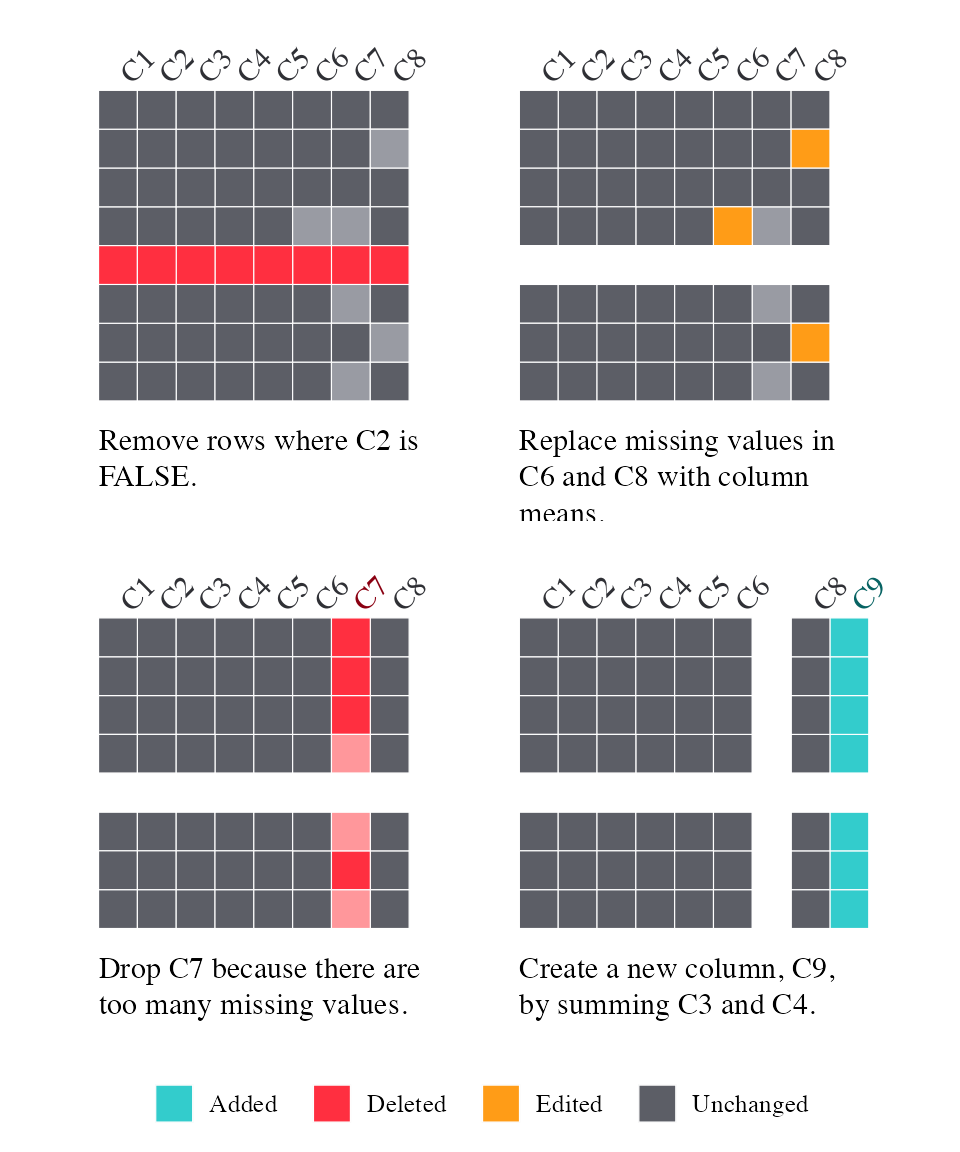
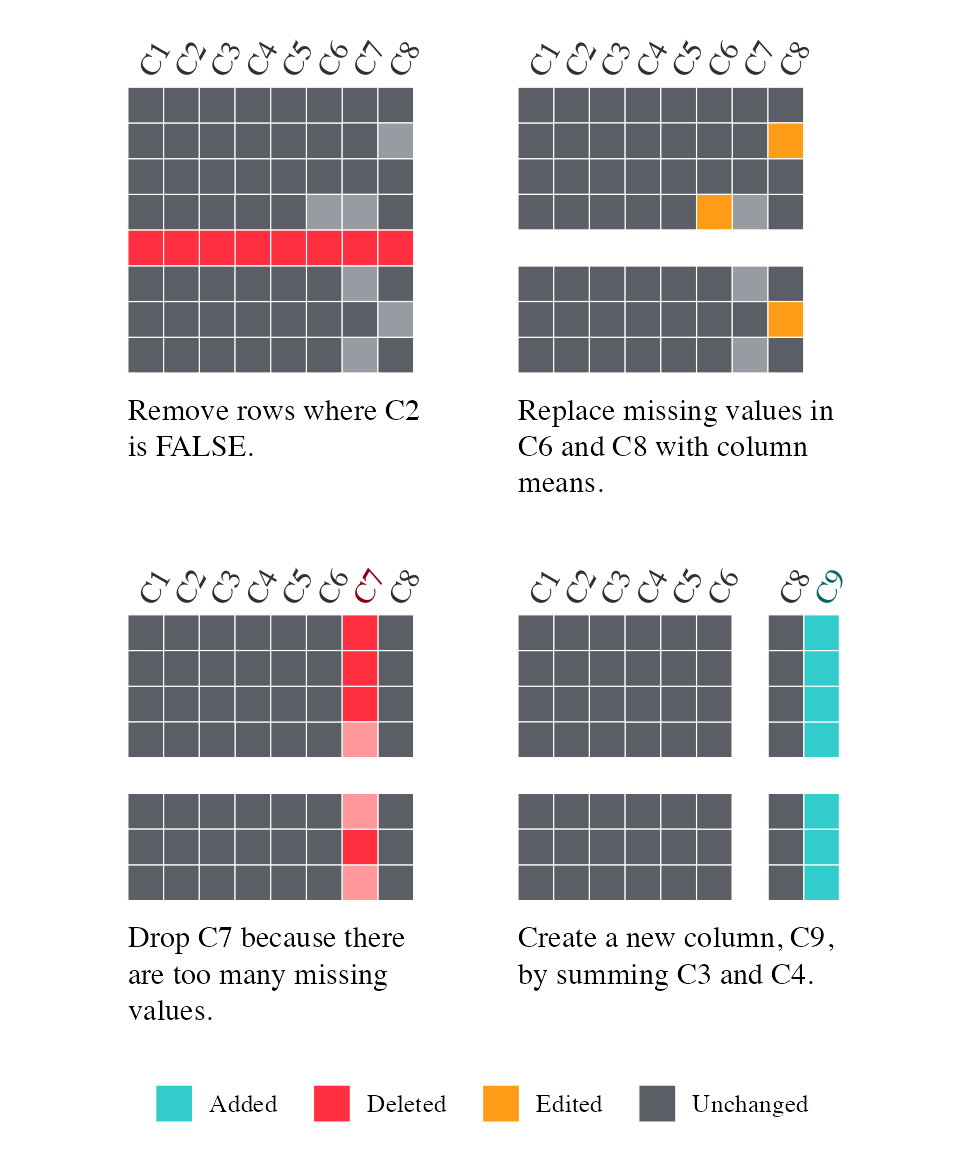
shift column names

diff --git a/docs/articles/smallsets.html b/docs/articles/smallsets.html
@@ -453,9 +453,9 @@ built-in colour palette, two rows, rotated column names, font.</p>
 <span>  missingDataTints <span class="op">=</span> <span class="cn">TRUE</span>,</span>
 <span>  font <span class="op">=</span> <span class="st">"serif"</span>,</span>
 <span>  spacing <span class="op">=</span> <span class="fu"><a href="../reference/sets_spacing.html">sets_spacing</a></span><span class="op">(</span></span>
-<span>    captions <span class="op">=</span> <span class="fl">2</span>,</span>
+<span>    captions <span class="op">=</span> <span class="fl">3</span>,</span>
 <span>    rows <span class="op">=</span> <span class="fl">2</span>,</span>
-<span>    degree <span class="op">=</span> <span class="fl">45</span>,</span>
+<span>    degree <span class="op">=</span> <span class="fl">60</span>,</span>
 <span>    header <span class="op">=</span> <span class="fl">1.5</span></span>
 <span>  <span class="op">)</span>,</span>
 <span>  sizing <span class="op">=</span> <span class="fu"><a href="../reference/sets_sizing.html">sets_sizing</a></span><span class="op">(</span></span>
@@ -533,7 +533,7 @@ block. It’s an example preprocessing script.)</p>
 <span>                    <span class="op">)</span>,</span>
 <span>                  spacing <span class="op">=</span> <span class="fu"><a href="../reference/sets_spacing.html">sets_spacing</a></span><span class="op">(</span></span>
 <span>                    captions <span class="op">=</span> <span class="fl">3</span>,</span>
-<span>                    degree <span class="op">=</span> <span class="fl">60</span>,</span>
+<span>                    degree <span class="op">=</span> <span class="fl">45</span>,</span>
 <span>                    header <span class="op">=</span> <span class="fl">3.5</span>,</span>
 <span>                    right <span class="op">=</span> <span class="fl">2</span></span>
 <span>                    <span class="op">)</span></span>
